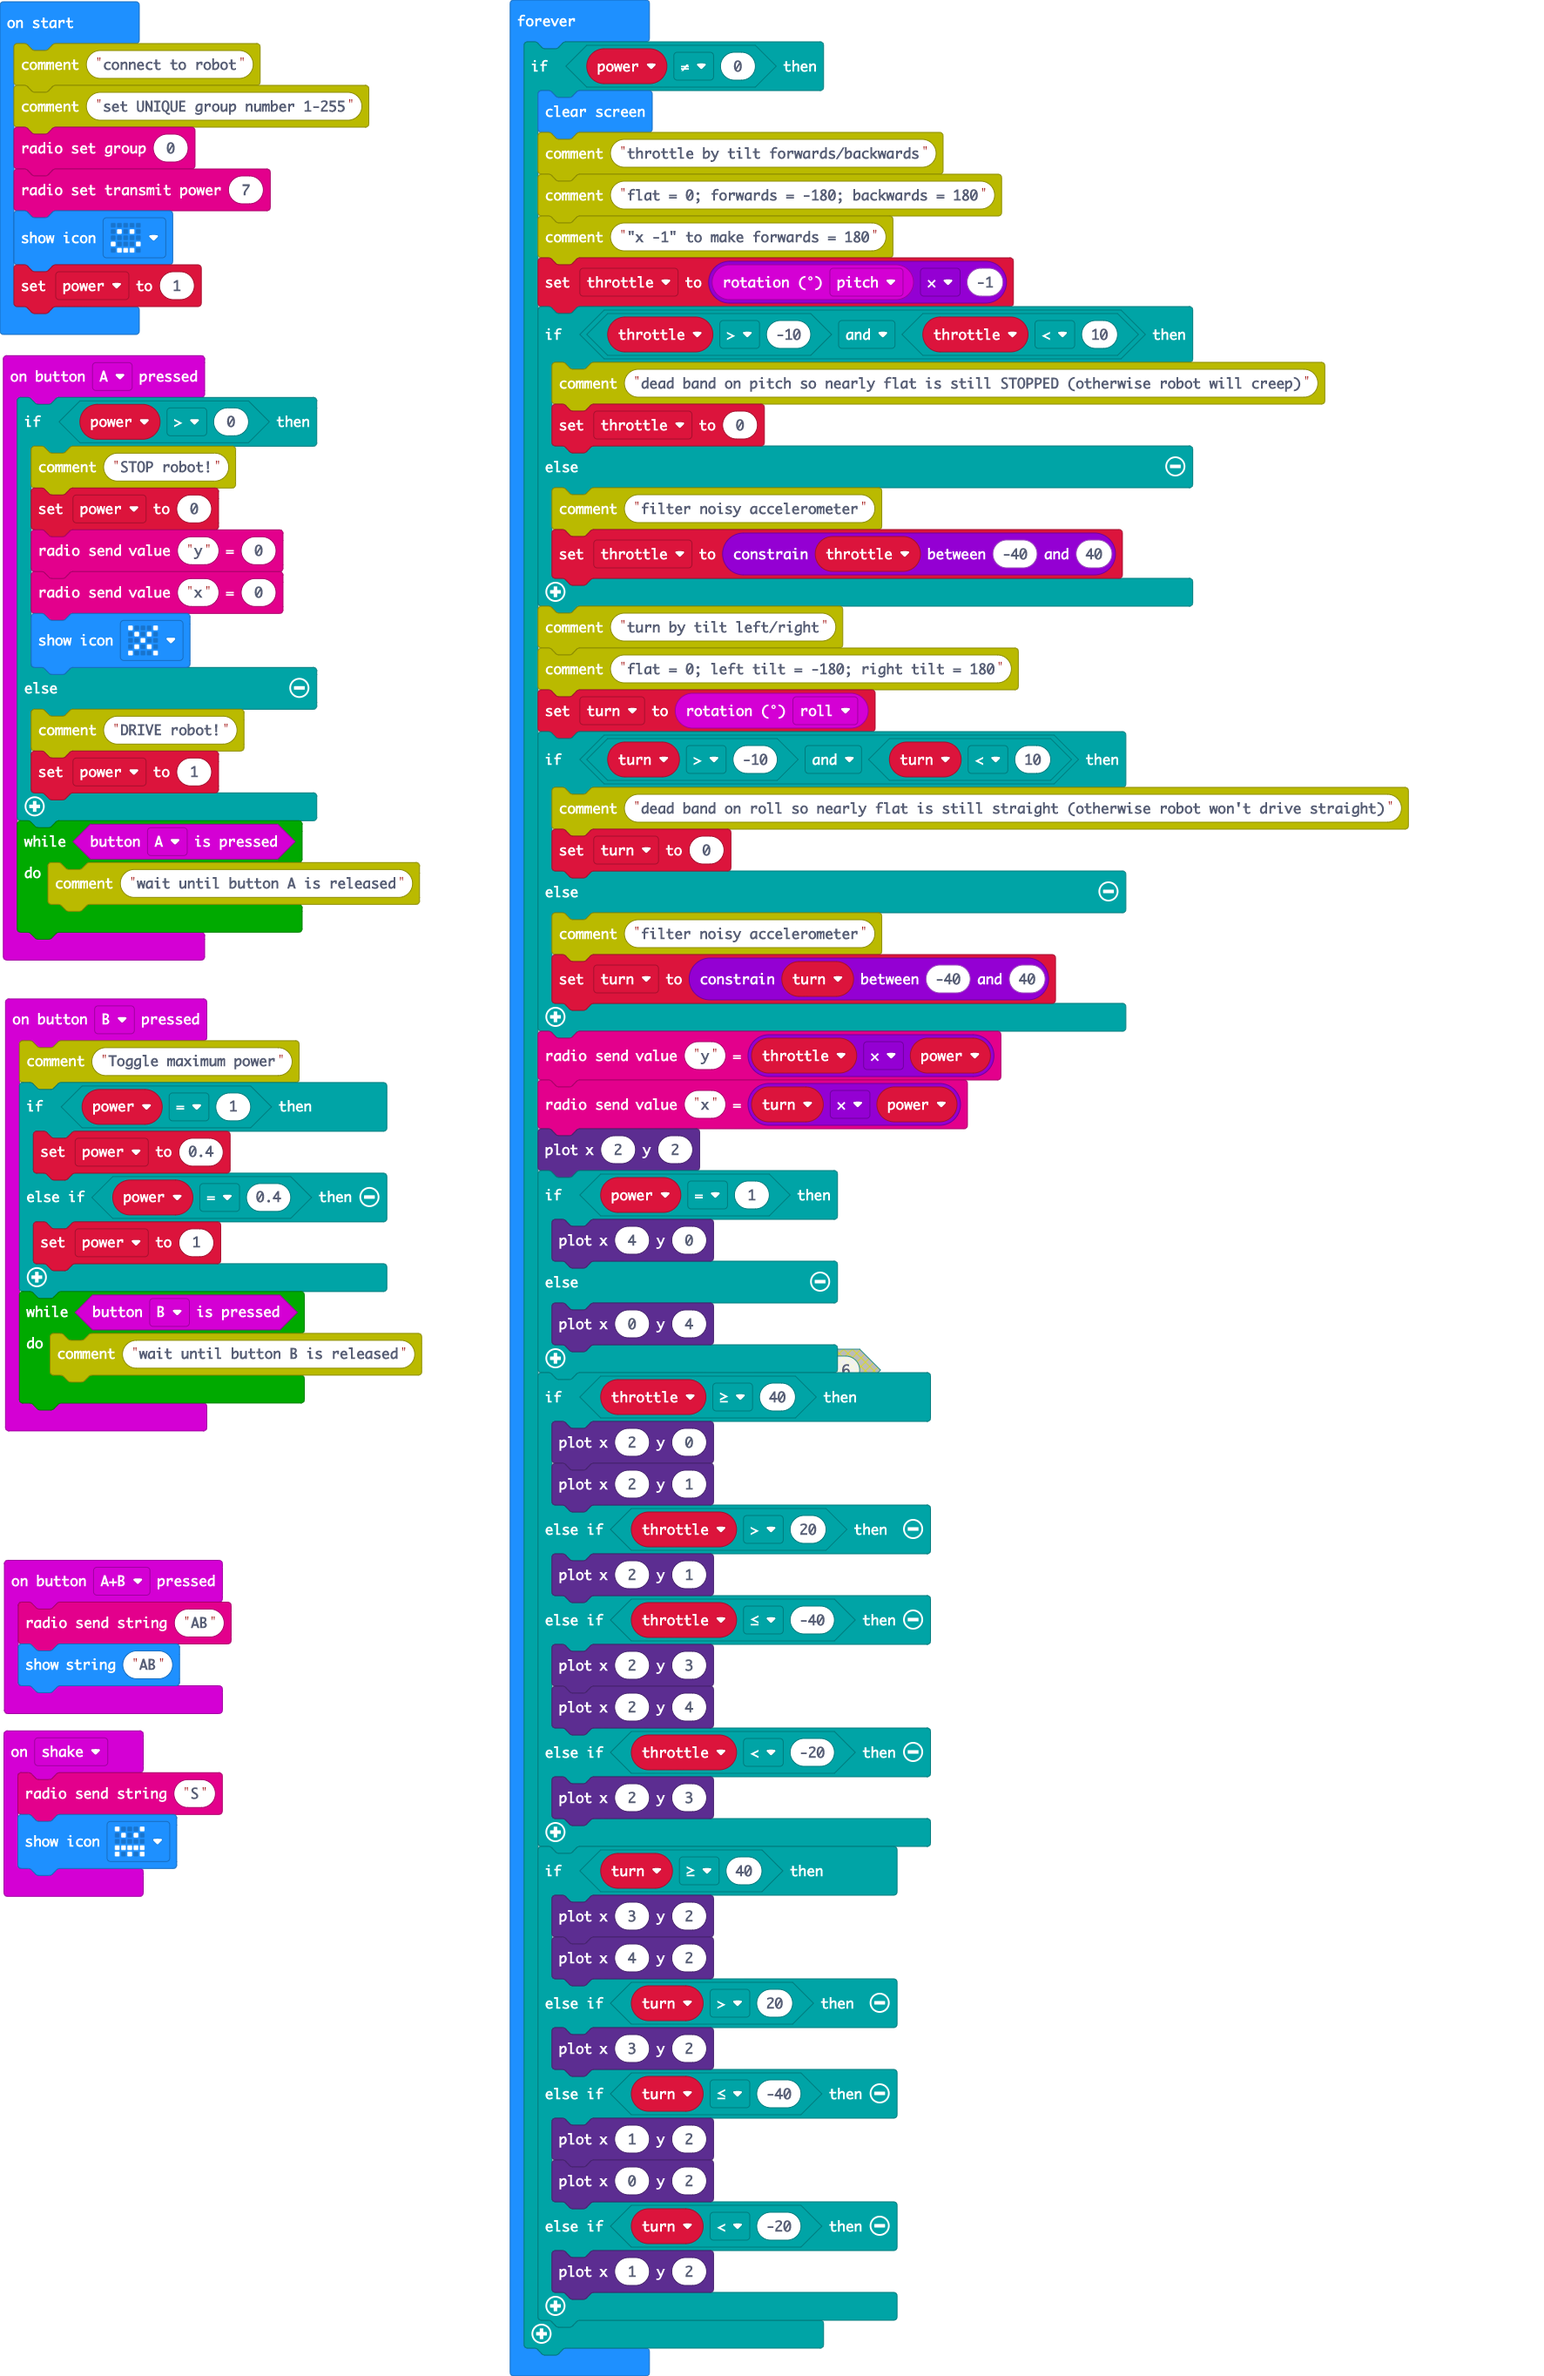
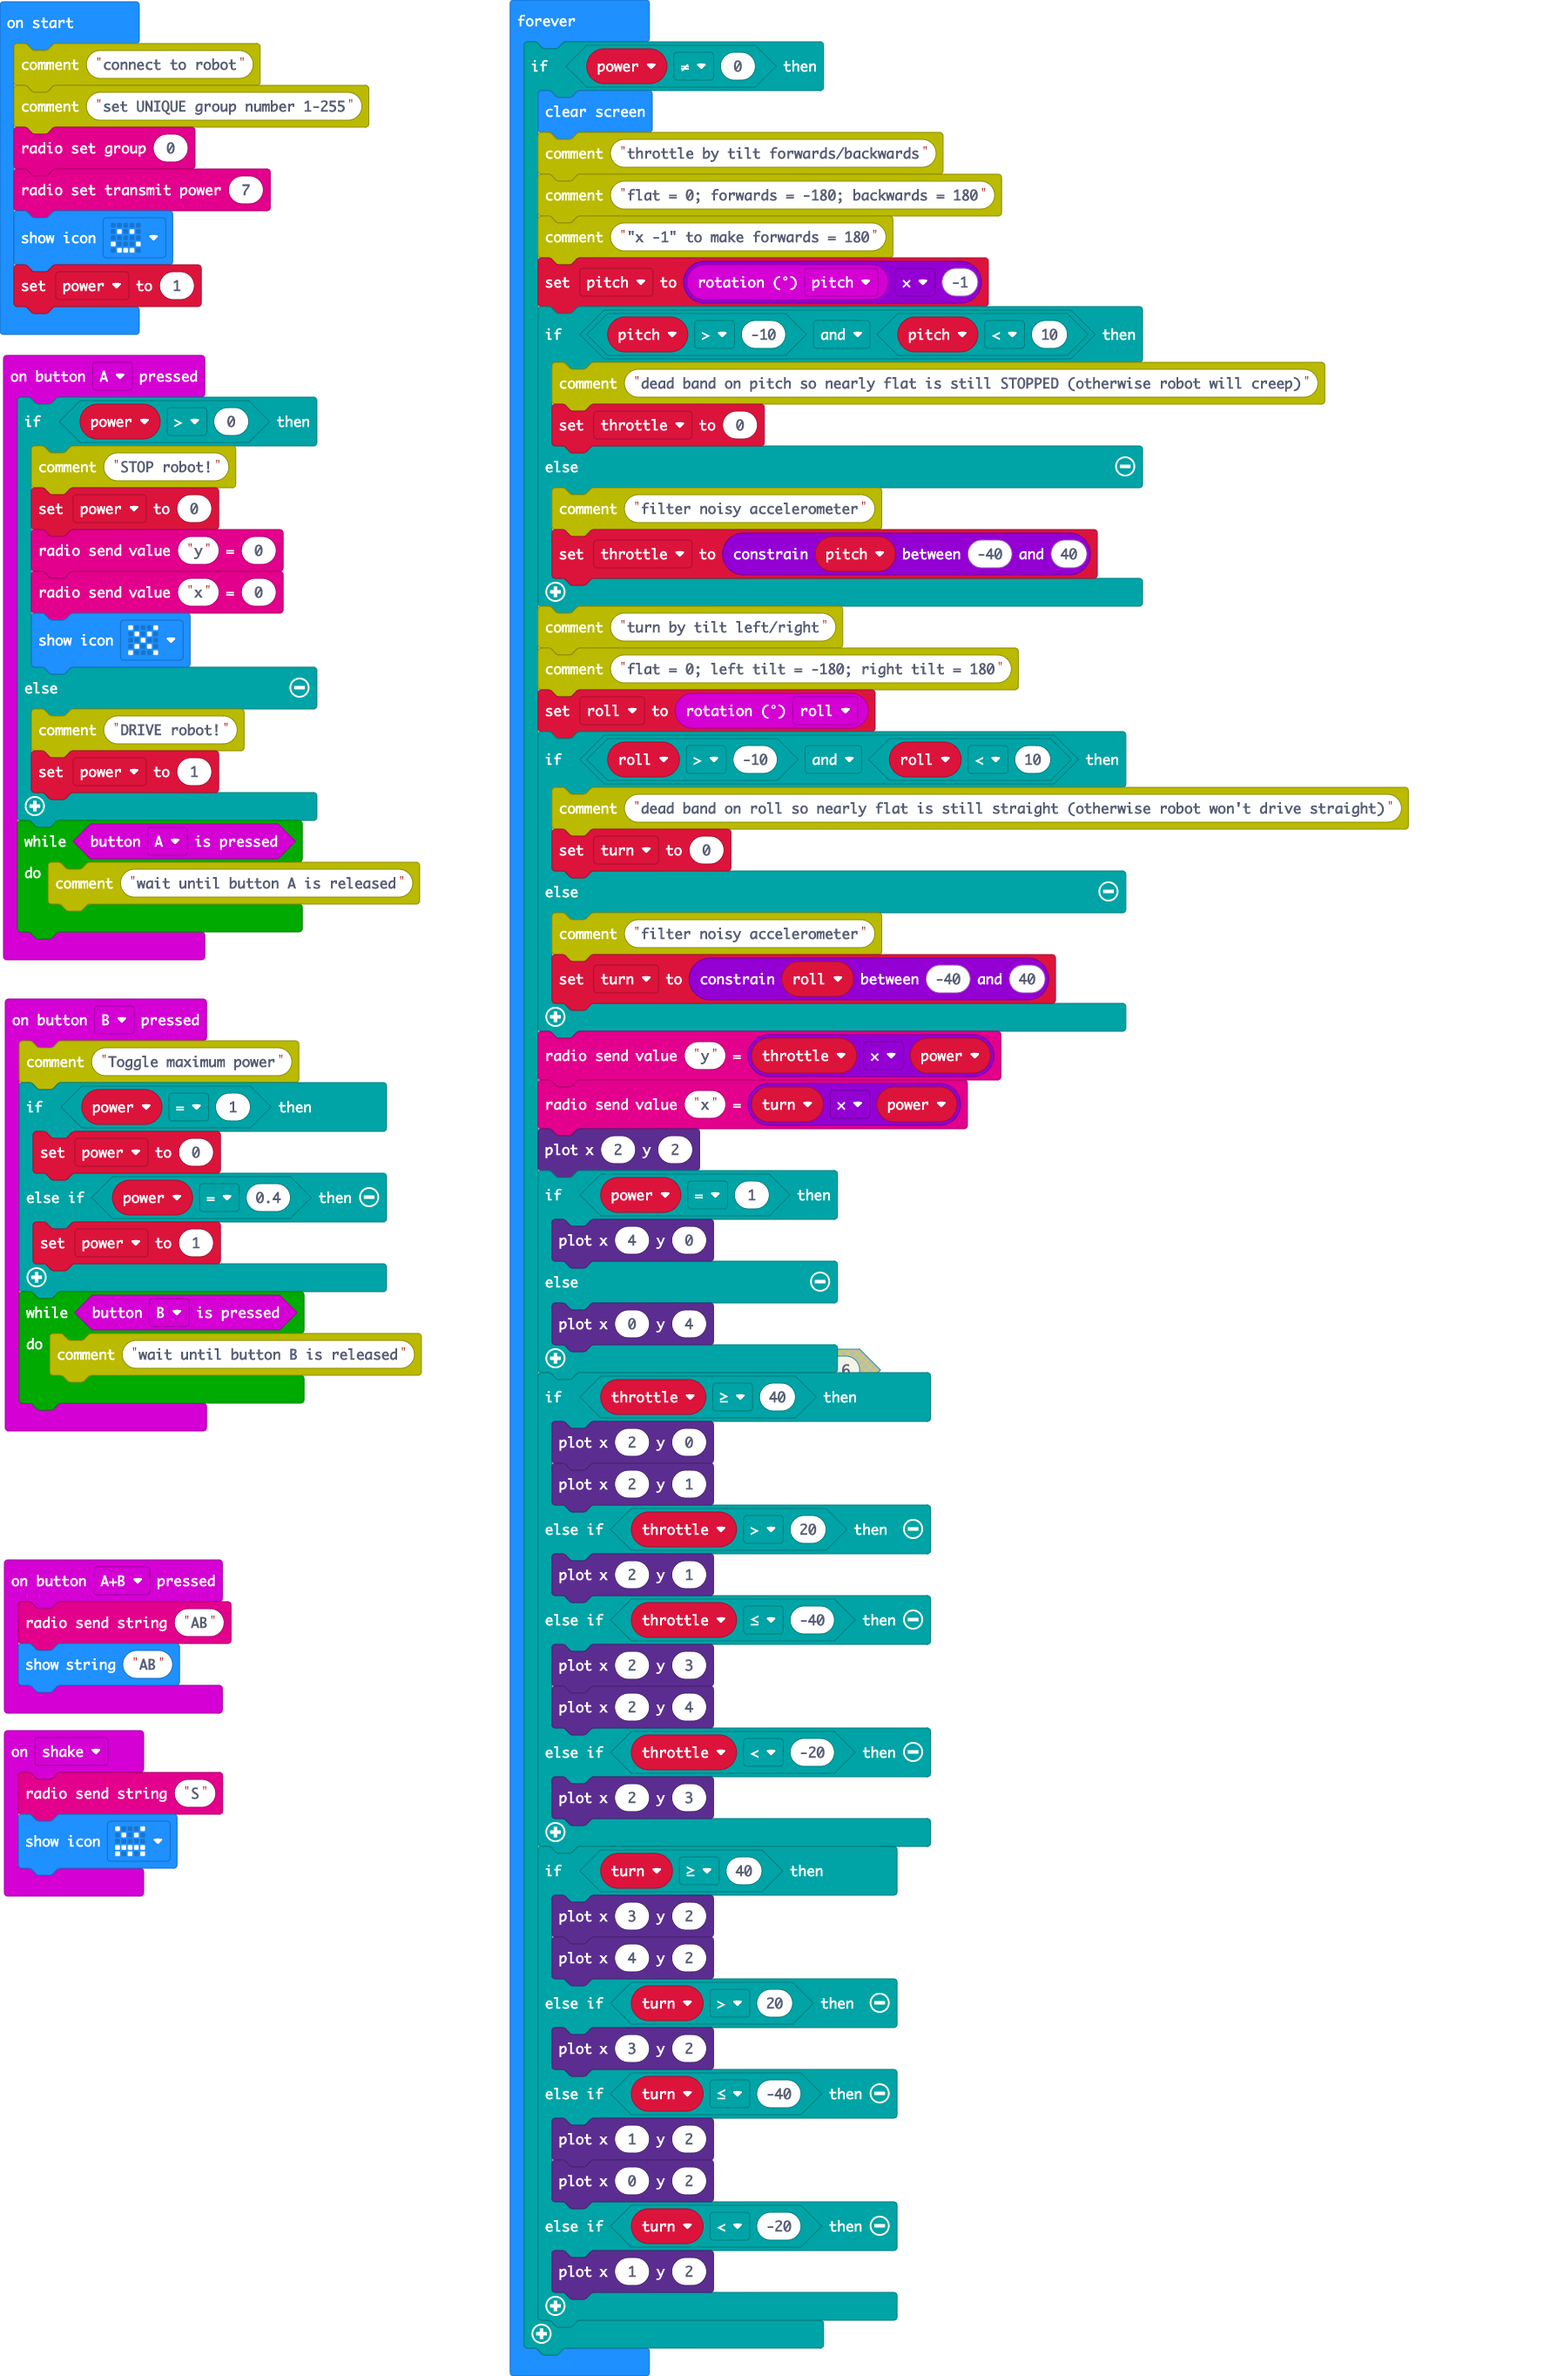
Update main.blocks, main.ts

diff --git a/main.ts b/main.ts
@@ -20,7 +20,7 @@ input.onButtonPressed(Button.AB, function () {
 input.onButtonPressed(Button.B, function () {
     comment.comment("Toggle maximum power")
     if (power == 1) {
-        power = 0.4
+        power = 0
     } else if (power == 0.4) {
         power = 1
     }
@@ -33,7 +33,9 @@ input.onGesture(Gesture.Shake, function () {
     basic.showIcon(IconNames.Angry)
 })
 let turn = 0
+let roll = 0
 let throttle = 0
+let pitch = 0
 let power = 0
 comment.comment("connect to robot")
 comment.comment("set UNIQUE group number 1-255")
@@ -47,23 +49,23 @@ basic.forever(function () {
         comment.comment("throttle by tilt forwards/backwards")
         comment.comment("flat = 0; forwards = -180; backwards = 180")
         comment.comment("\"x -1\" to make forwards = 180")
-        throttle = input.rotation(Rotation.Pitch) * -1
-        if (throttle > -10 && throttle < 10) {
+        pitch = input.rotation(Rotation.Pitch) * -1
+        if (pitch > -10 && pitch < 10) {
             comment.comment("dead band on pitch so nearly flat is still STOPPED (otherwise robot will creep)")
             throttle = 0
         } else {
             comment.comment("filter noisy accelerometer")
-            throttle = Math.constrain(throttle, -40, 40)
+            throttle = Math.constrain(pitch, -40, 40)
         }
         comment.comment("turn by tilt left/right")
         comment.comment("flat = 0; left tilt = -180; right tilt = 180")
-        turn = input.rotation(Rotation.Roll)
-        if (turn > -10 && turn < 10) {
+        roll = input.rotation(Rotation.Roll)
+        if (roll > -10 && roll < 10) {
             comment.comment("dead band on roll so nearly flat is still straight (otherwise robot won't drive straight)")
             turn = 0
         } else {
             comment.comment("filter noisy accelerometer")
-            turn = Math.constrain(turn, -40, 40)
+            turn = Math.constrain(roll, -40, 40)
         }
         radio.sendValue("y", throttle * power)
         radio.sendValue("x", turn * power)
